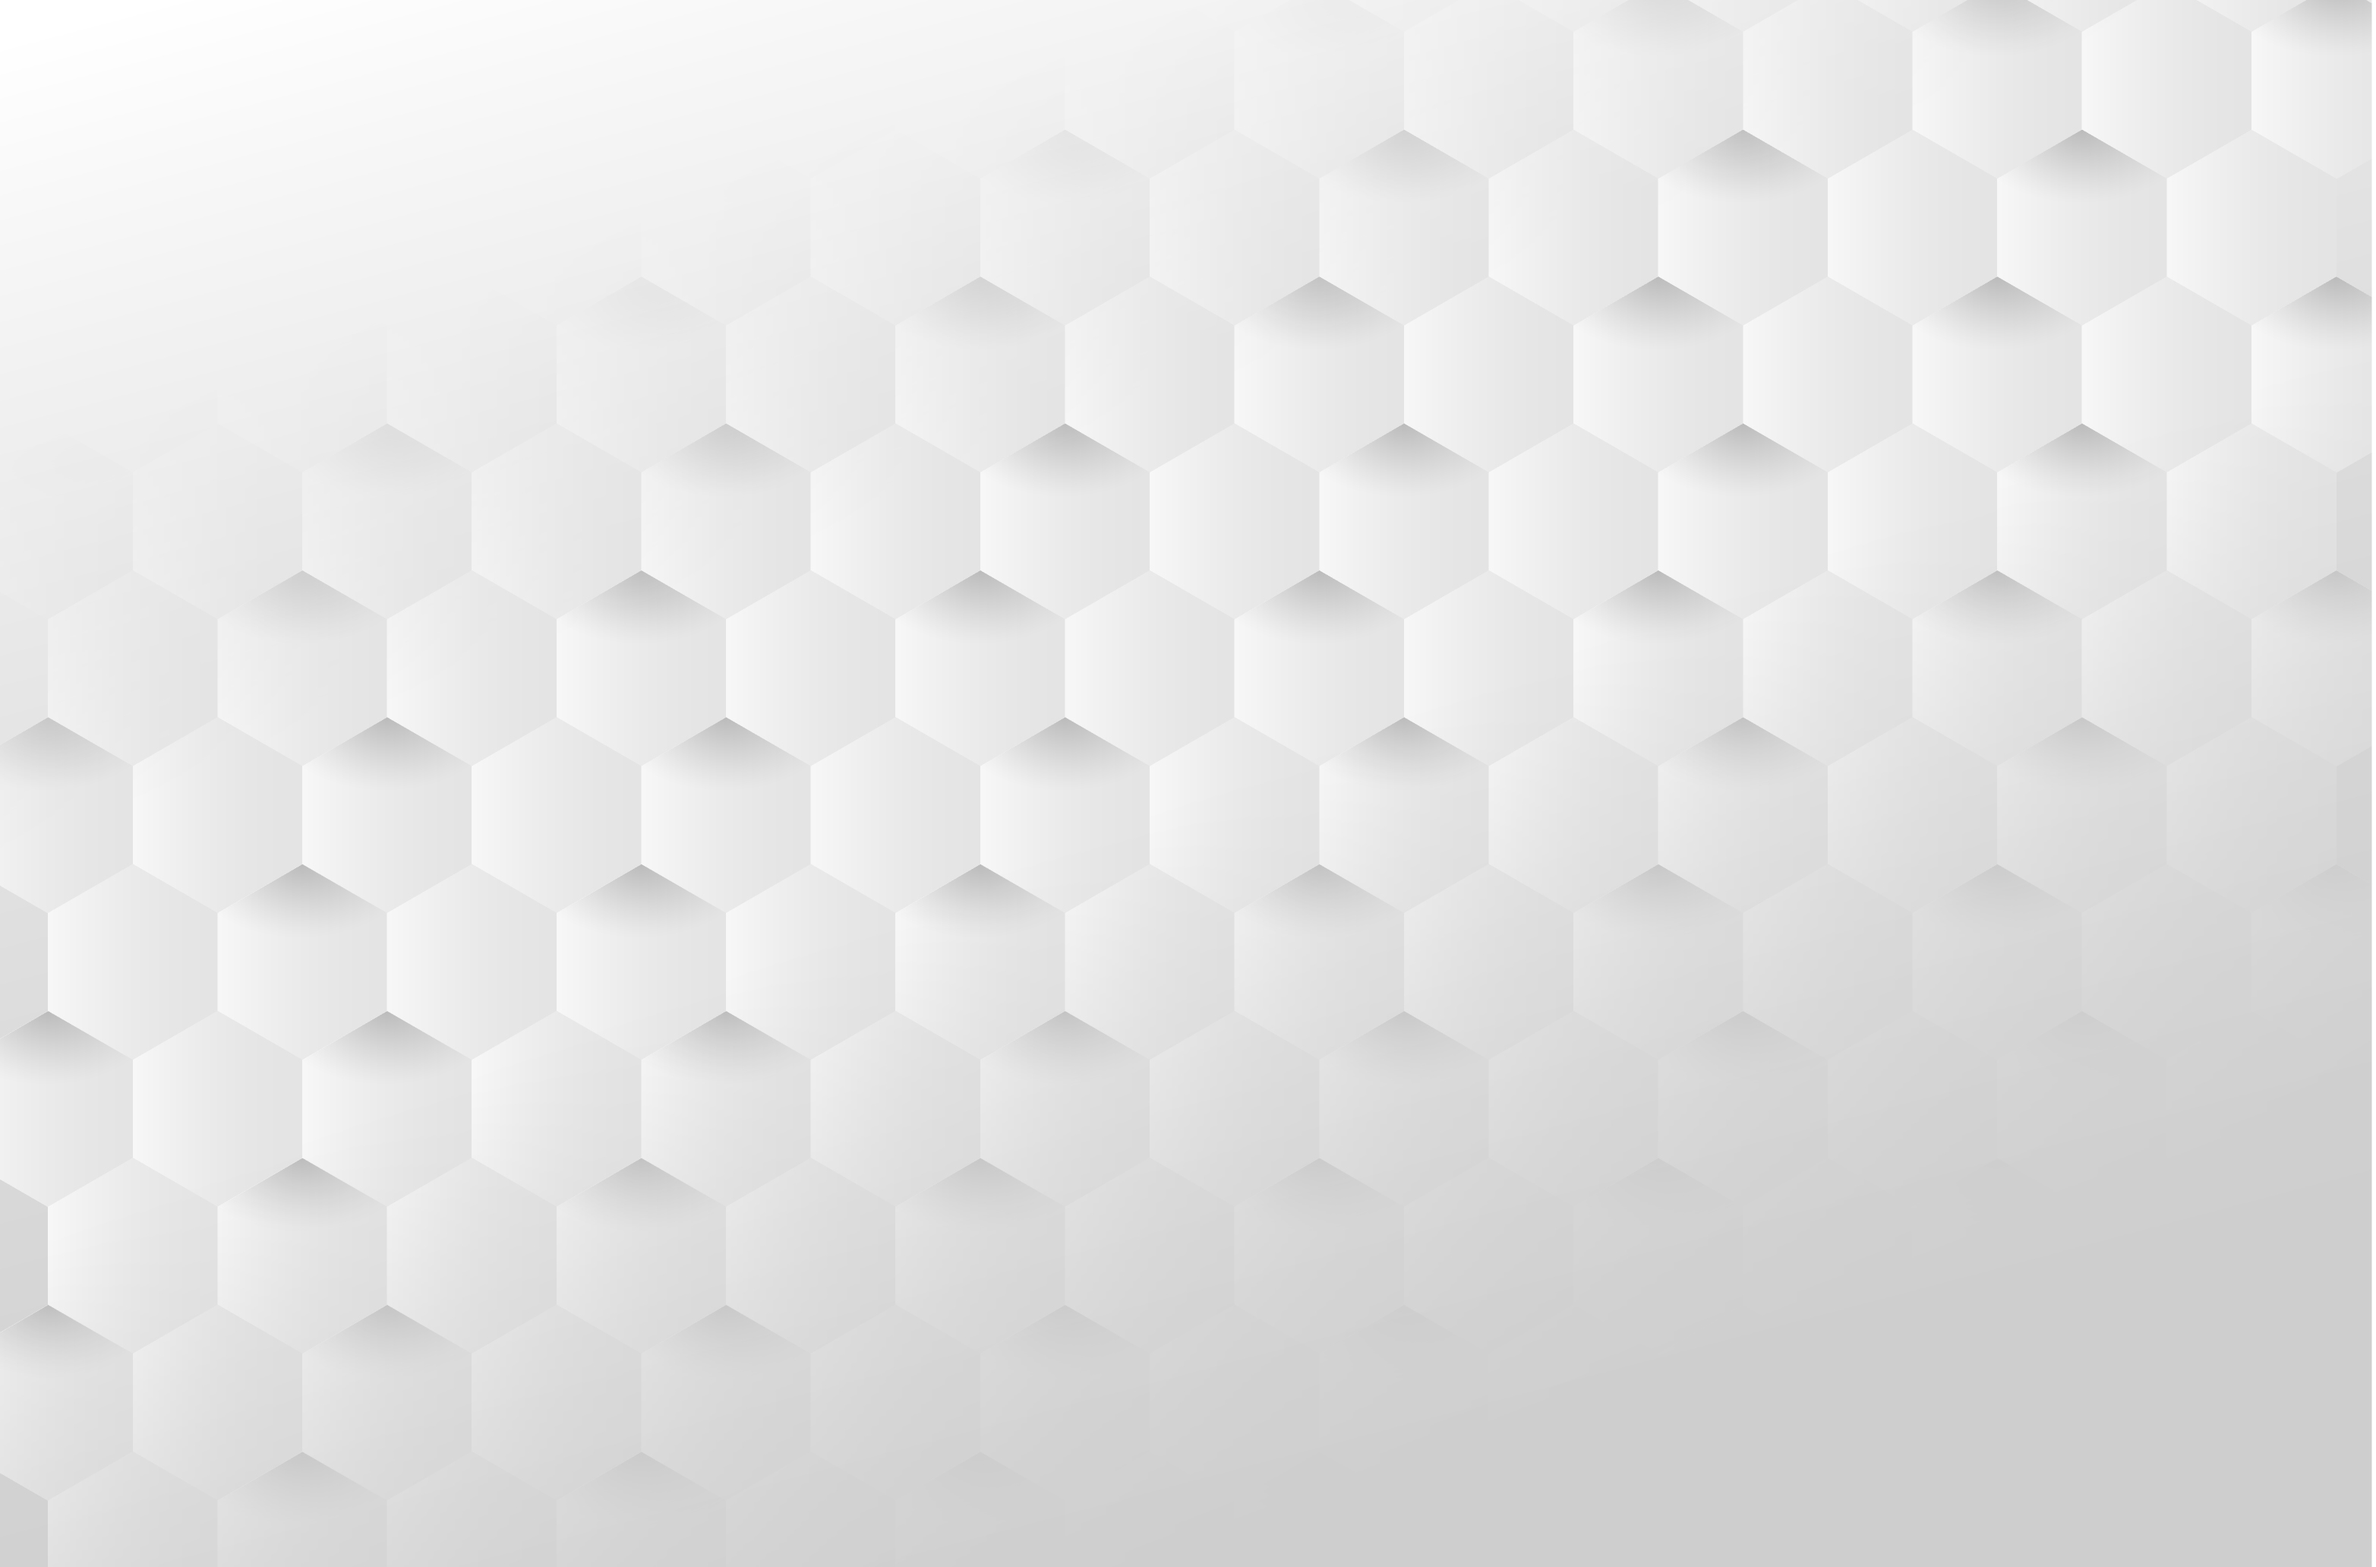
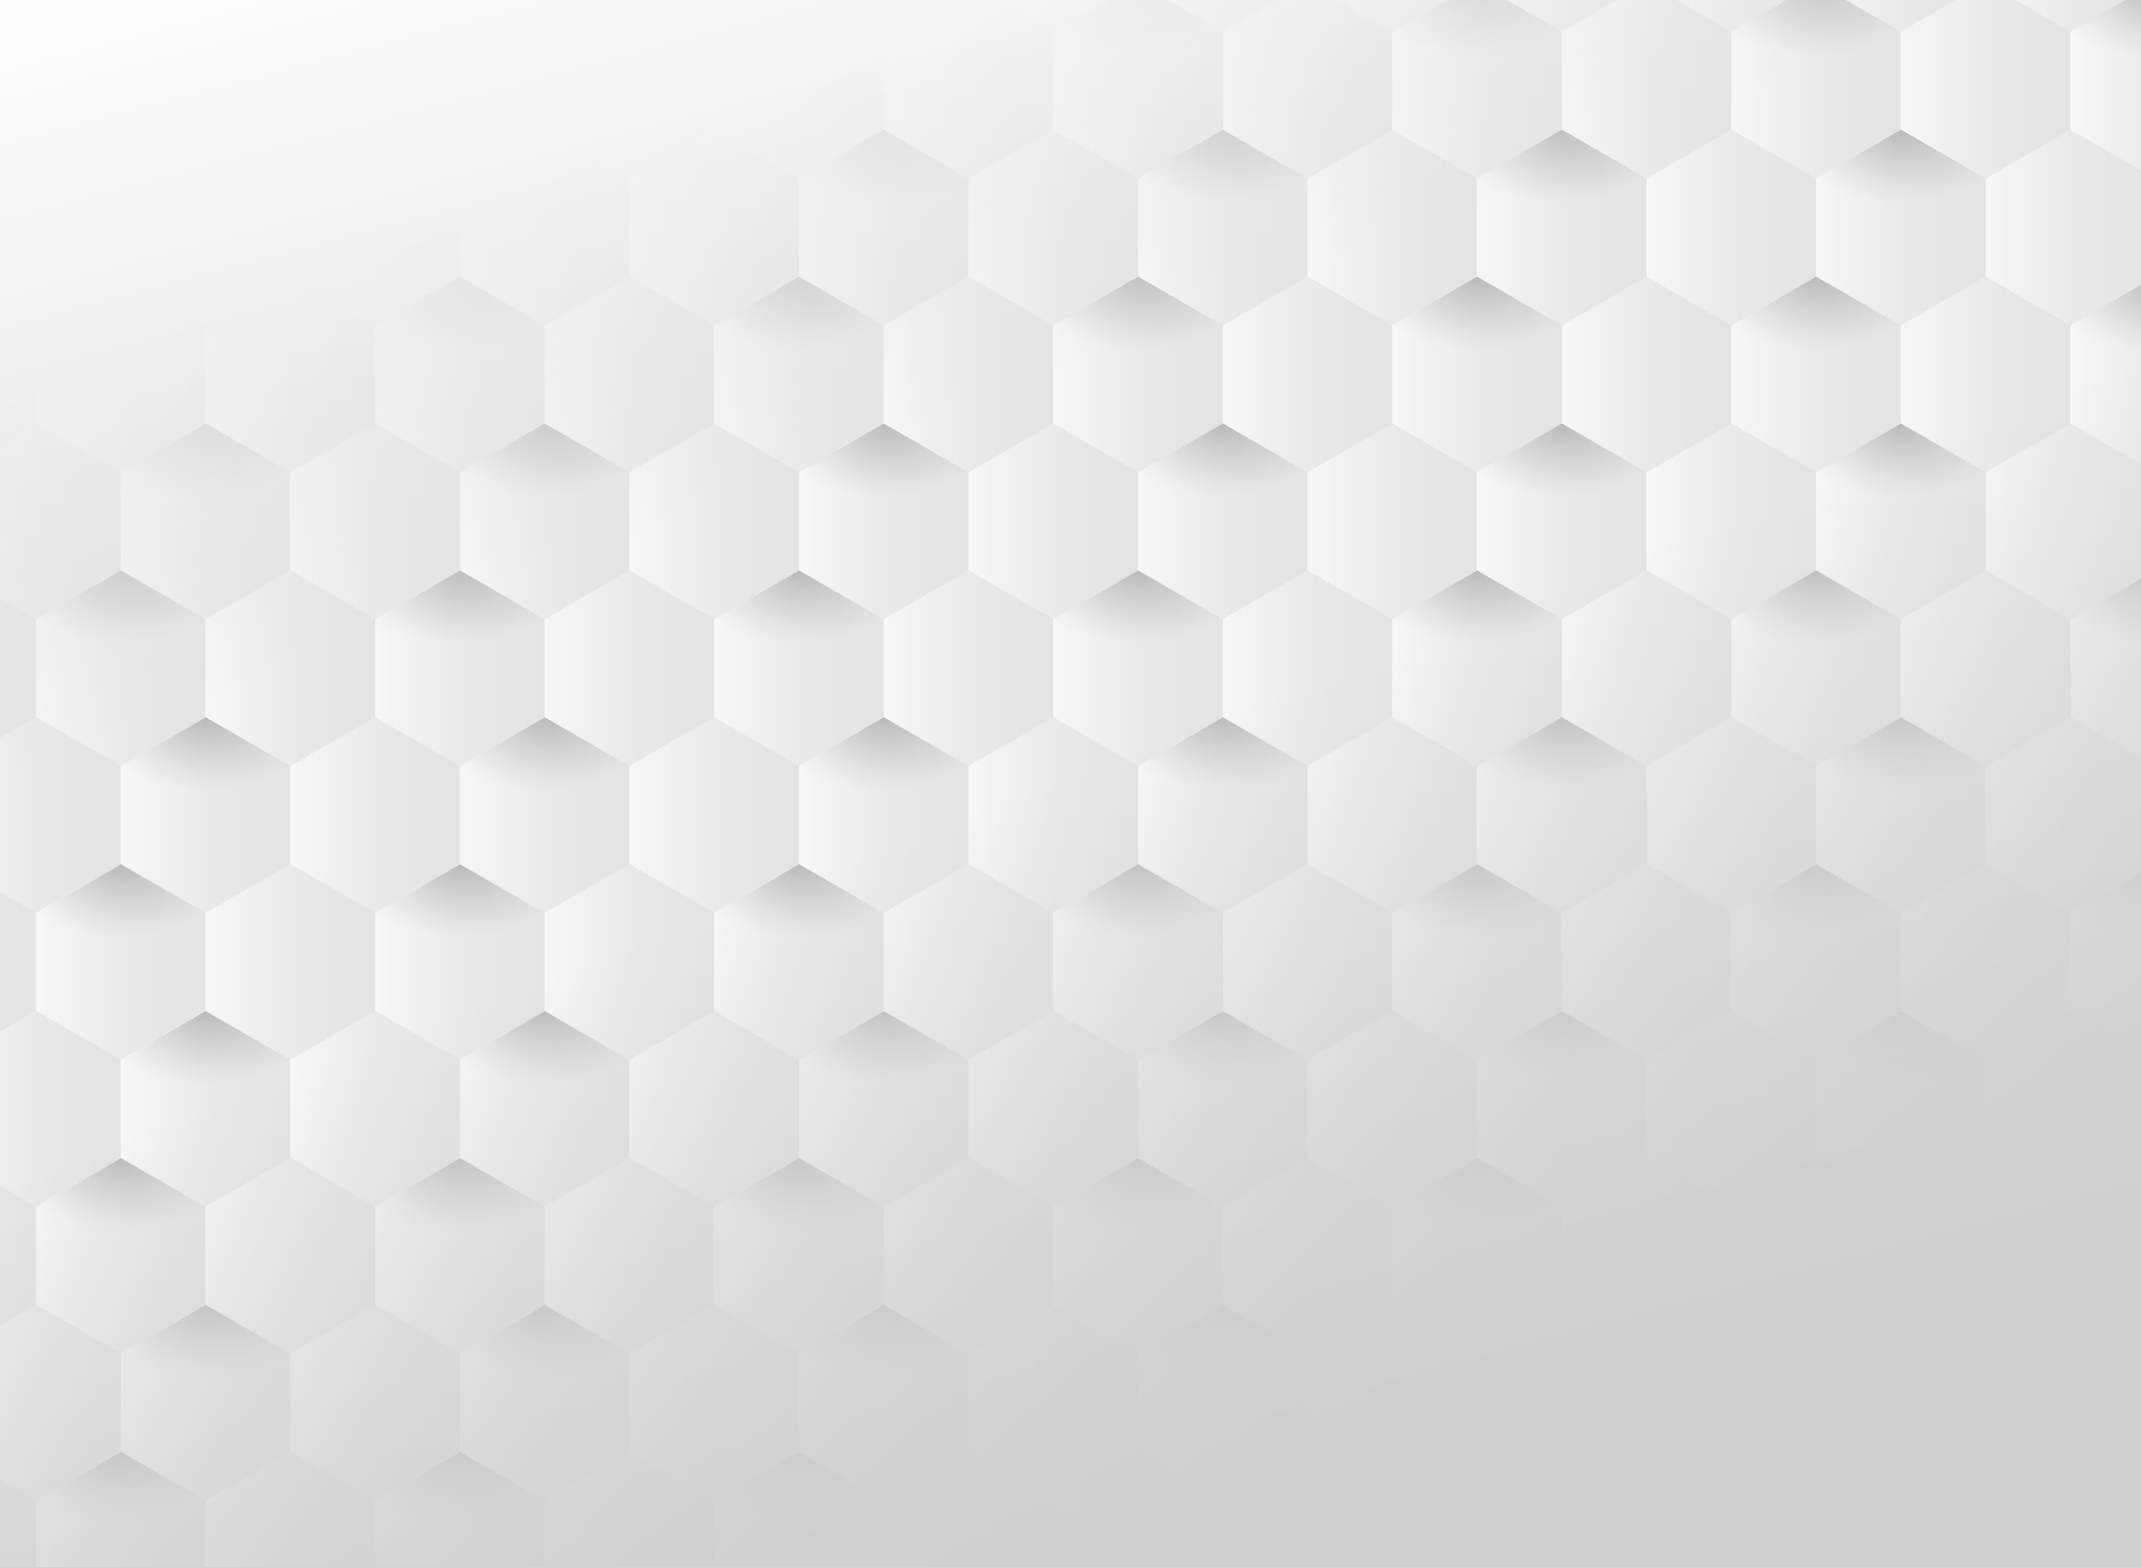
1

diff --git a/css/home.css b/css/home.css
@@ -1,21 +1,28 @@
 
-#particles-js {
-  position: relative;
-  width: 100%;
-  height: 100%;
-  background-color: whitesmoke;
-  background-image: url("");
-  background-repeat: no-repeat;
+
+
+.backgroundimg {
+  -webkit-background-size: cover;
+  -moz-background-size: cover;
+  -o-background-size: cover;
   background-size: cover;
-  background-position: 100% 100%;
+  position: absolute;
+  top: 0;
+  left: 0;
+  height: 100%;
+  width: 100%;
 
 }
 
-#home{
-  background: url(../img/2070543.jpg);
+#back1 {
+  background: url(../img/2070543.jpg) no-repeat center center fixed;
   background-size: cover;
-  background-position: center;
-  background-repeat: no-repeat;
+}
+
+#back2 {
+  background:  url(../img/2070543b.jpg) no-repeat center center fixed ;
+  background-size: cover;
+
 }
 .logo{
 	position: absolute;
@@ -41,3 +48,39 @@
  text-align: center;
 
 }
+
+
+
+@keyframes backgroundchangeFadeInOut {
+  0% {
+    opacity:1;
+  }
+
+50%{
+
+  opacity: 0.2;
+}
+  
+  100% {
+    opacity:1;
+  }
+}
+
+#panel div:nth-of-type(1) {
+  animation-delay: 6s;
+}
+#panel div:nth-of-type(2) {
+  animation-delay: 0s;
+
+}
+
+
+
+#panel div {
+  animation-name: backgroundchangeFadeInOut;
+  animation-timing-function: linear;
+  animation-iteration-count: infinite;
+  animation-duration: 3s;
+
+
+  }

diff --git a/index.html b/index.html
@@ -28,17 +28,19 @@
 
 	<!-- Home -->
 	<div id="home">
-		<div id="particles-js1">
-			<div class="logo">
-				<img src="img/LogoJMG.png">
-				<div class="btlogo">
-				<button id="top-info-button" class="icon-btn add-btn">
-					<div class="btn-txt">Veja Mais</div>
-				</button>
-				</div>
+	<div id="panel">
+		<div class="backgroundimg" id="back1"></div>
+		<div class="backgroundimg" id="back2"></div>
+	</div>
+	<div class="logo">
+			<img src="img/LogoJMG.png">
+			<div class="btlogo">
+			<button id="top-info-button" class="icon-btn add-btn">
+				<div class="btn-txt">Veja Mais</div>
+			</button>
 			</div>
 		</div>
-	</div>
+</div>
 
 	<nav id="nav" class="navbar navbar-default navbar-expand-lg navbar-light top-navbar" data-toggle="sticky-onscroll">
 		<button class="navbar-toggler" type="button" data-toggle="collapse" data-target="#navbarCollapse"
